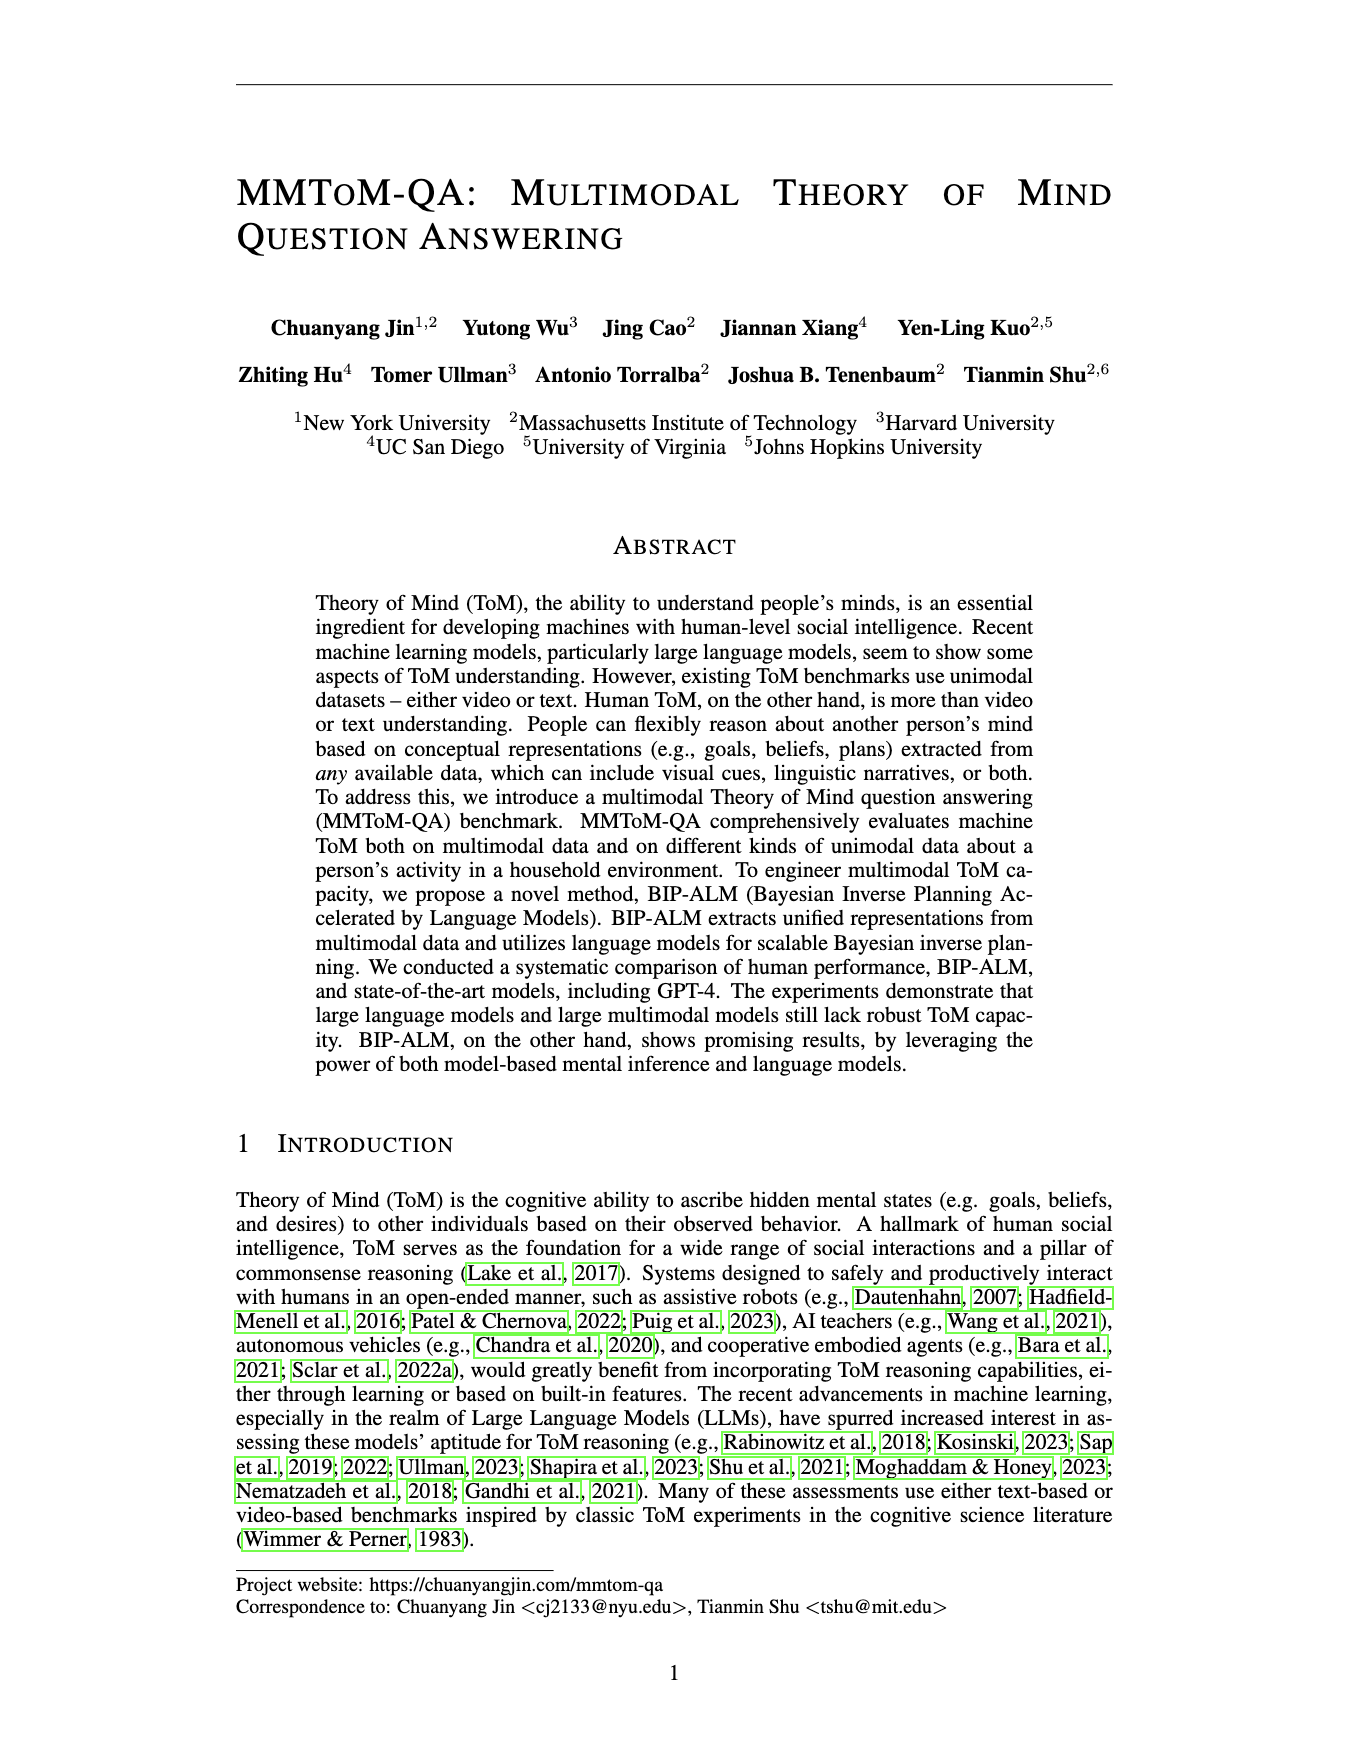
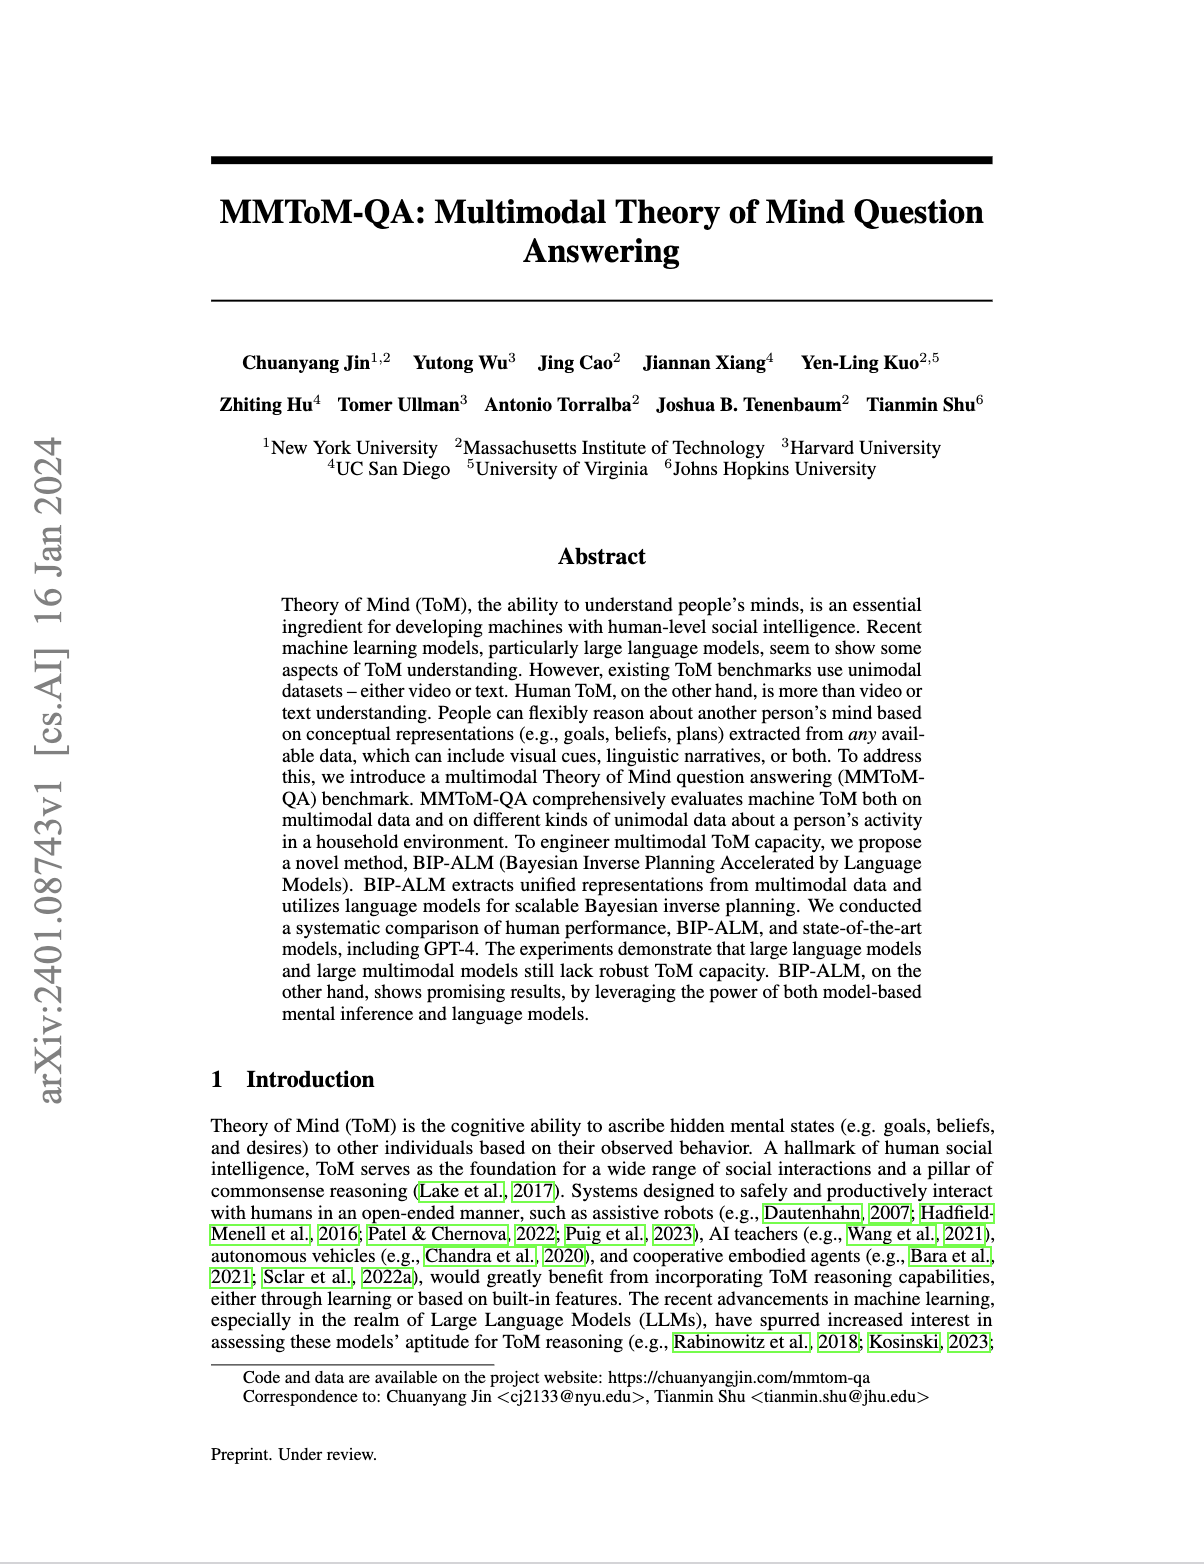
update

Changed region(s): [[0.1537, 0.0921, 0.8297, 0.9514], [0.0307, 0.2762, 0.0615, 0.7059]]

diff --git a/mmtom-qa.html b/mmtom-qa.html
@@ -198,7 +198,7 @@
 							</td>
 							<td align="center" width="100px">
 								<center>
-									<span style="font-size:17px"><a href="http://web.mit.edu/cocosci/josh.html">Josh Tenenbaum</a><sup>2</sup></span>
+									<span style="font-size:17px"><a href="http://web.mit.edu/cocosci/josh.html">Joshua Tenenbaum</a><sup>2</sup></span>
 								</center>
 							</td>
 							<td align="center" width="100px">
@@ -257,7 +257,7 @@
 					<tbody><tr>
 						<td align="center" width="120px">
 							<center>
-								<span style="font-size:24px"><a href="https://openreview.net/pdf?id=jbLM1yvxaL">[Paper]</a></span>
+								<span style="font-size:24px"><a href="https://arxiv.org/abs/2401.08743">[Paper]</a></span>
 							</center>
 						</td>
 						<td align="center" width="120px">
@@ -524,12 +524,12 @@
 		<center><h1>Paper</h1></center><table align="center" width="890px">
 			
 			<tbody><tr>
-				<td><a href="https://openreview.net/pdf?id=jbLM1yvxaL"><img class="layered-paper-big" style="height:200px" src="/assets/img/mmtom-qa/paper_coop.png"></a></td>
+				<td><a href="https://arxiv.org/abs/2401.08743"><img class="layered-paper-big" style="height:200px" src="/assets/img/mmtom-qa/paper_coop.png"></a></td>
 				<td><span style="font-size:12pt">Chuanyang Jin, Yutong Wu, Jing Cao, Jiannan Xiang, Yen-Ling Kuo, Zhiting Hu, Tomer Ullman, Antonio Torralba, Joshua Tenenbaum, Tianmin Shu<br>
 					<b>MMToM-QA: Multimodal Theory of Mind Question Answering</b><br>
 					arXiv Preprint <br>
 					A short version presented at NeurIPS'23 FMDM Workshop <br>
-					<a href="https://openreview.net/pdf?id=jbLM1yvxaL">Paper</a><br>
+					<a href="https://arxiv.org/abs/2401.08743">Paper</a><br>
 					</span>
 				</span></td>
 			</tr>

diff --git a/index.md b/index.md
@@ -78,7 +78,7 @@ Here is my [CV](/assets/Chuanyang_CV.pdf) (Last update: Dec 2023).
     <a href="https://www.tshu.io/">Tianmin Shu</a><br>
     <i>Under Review</i> <br>
     A short version presented at <a href="https://sites.google.com/view/fmdm-neurips23/">NeurIPS'23 FMDM Workshop</a>. <br>
-    <a href="https://openreview.net/pdf?id=jbLM1yvxaL">paper</a> /
+    <a href="https://arxiv.org/abs/2401.08743">paper</a> /
     <a href="/mmtom-qa">project</a> /
     <a href="https://github.com/chuanyangjin/MMToM-QA">code</a> /
     <a href="http://virtual-home.org/release/MMToMQA/benchmark.zip">benchmark</a>
